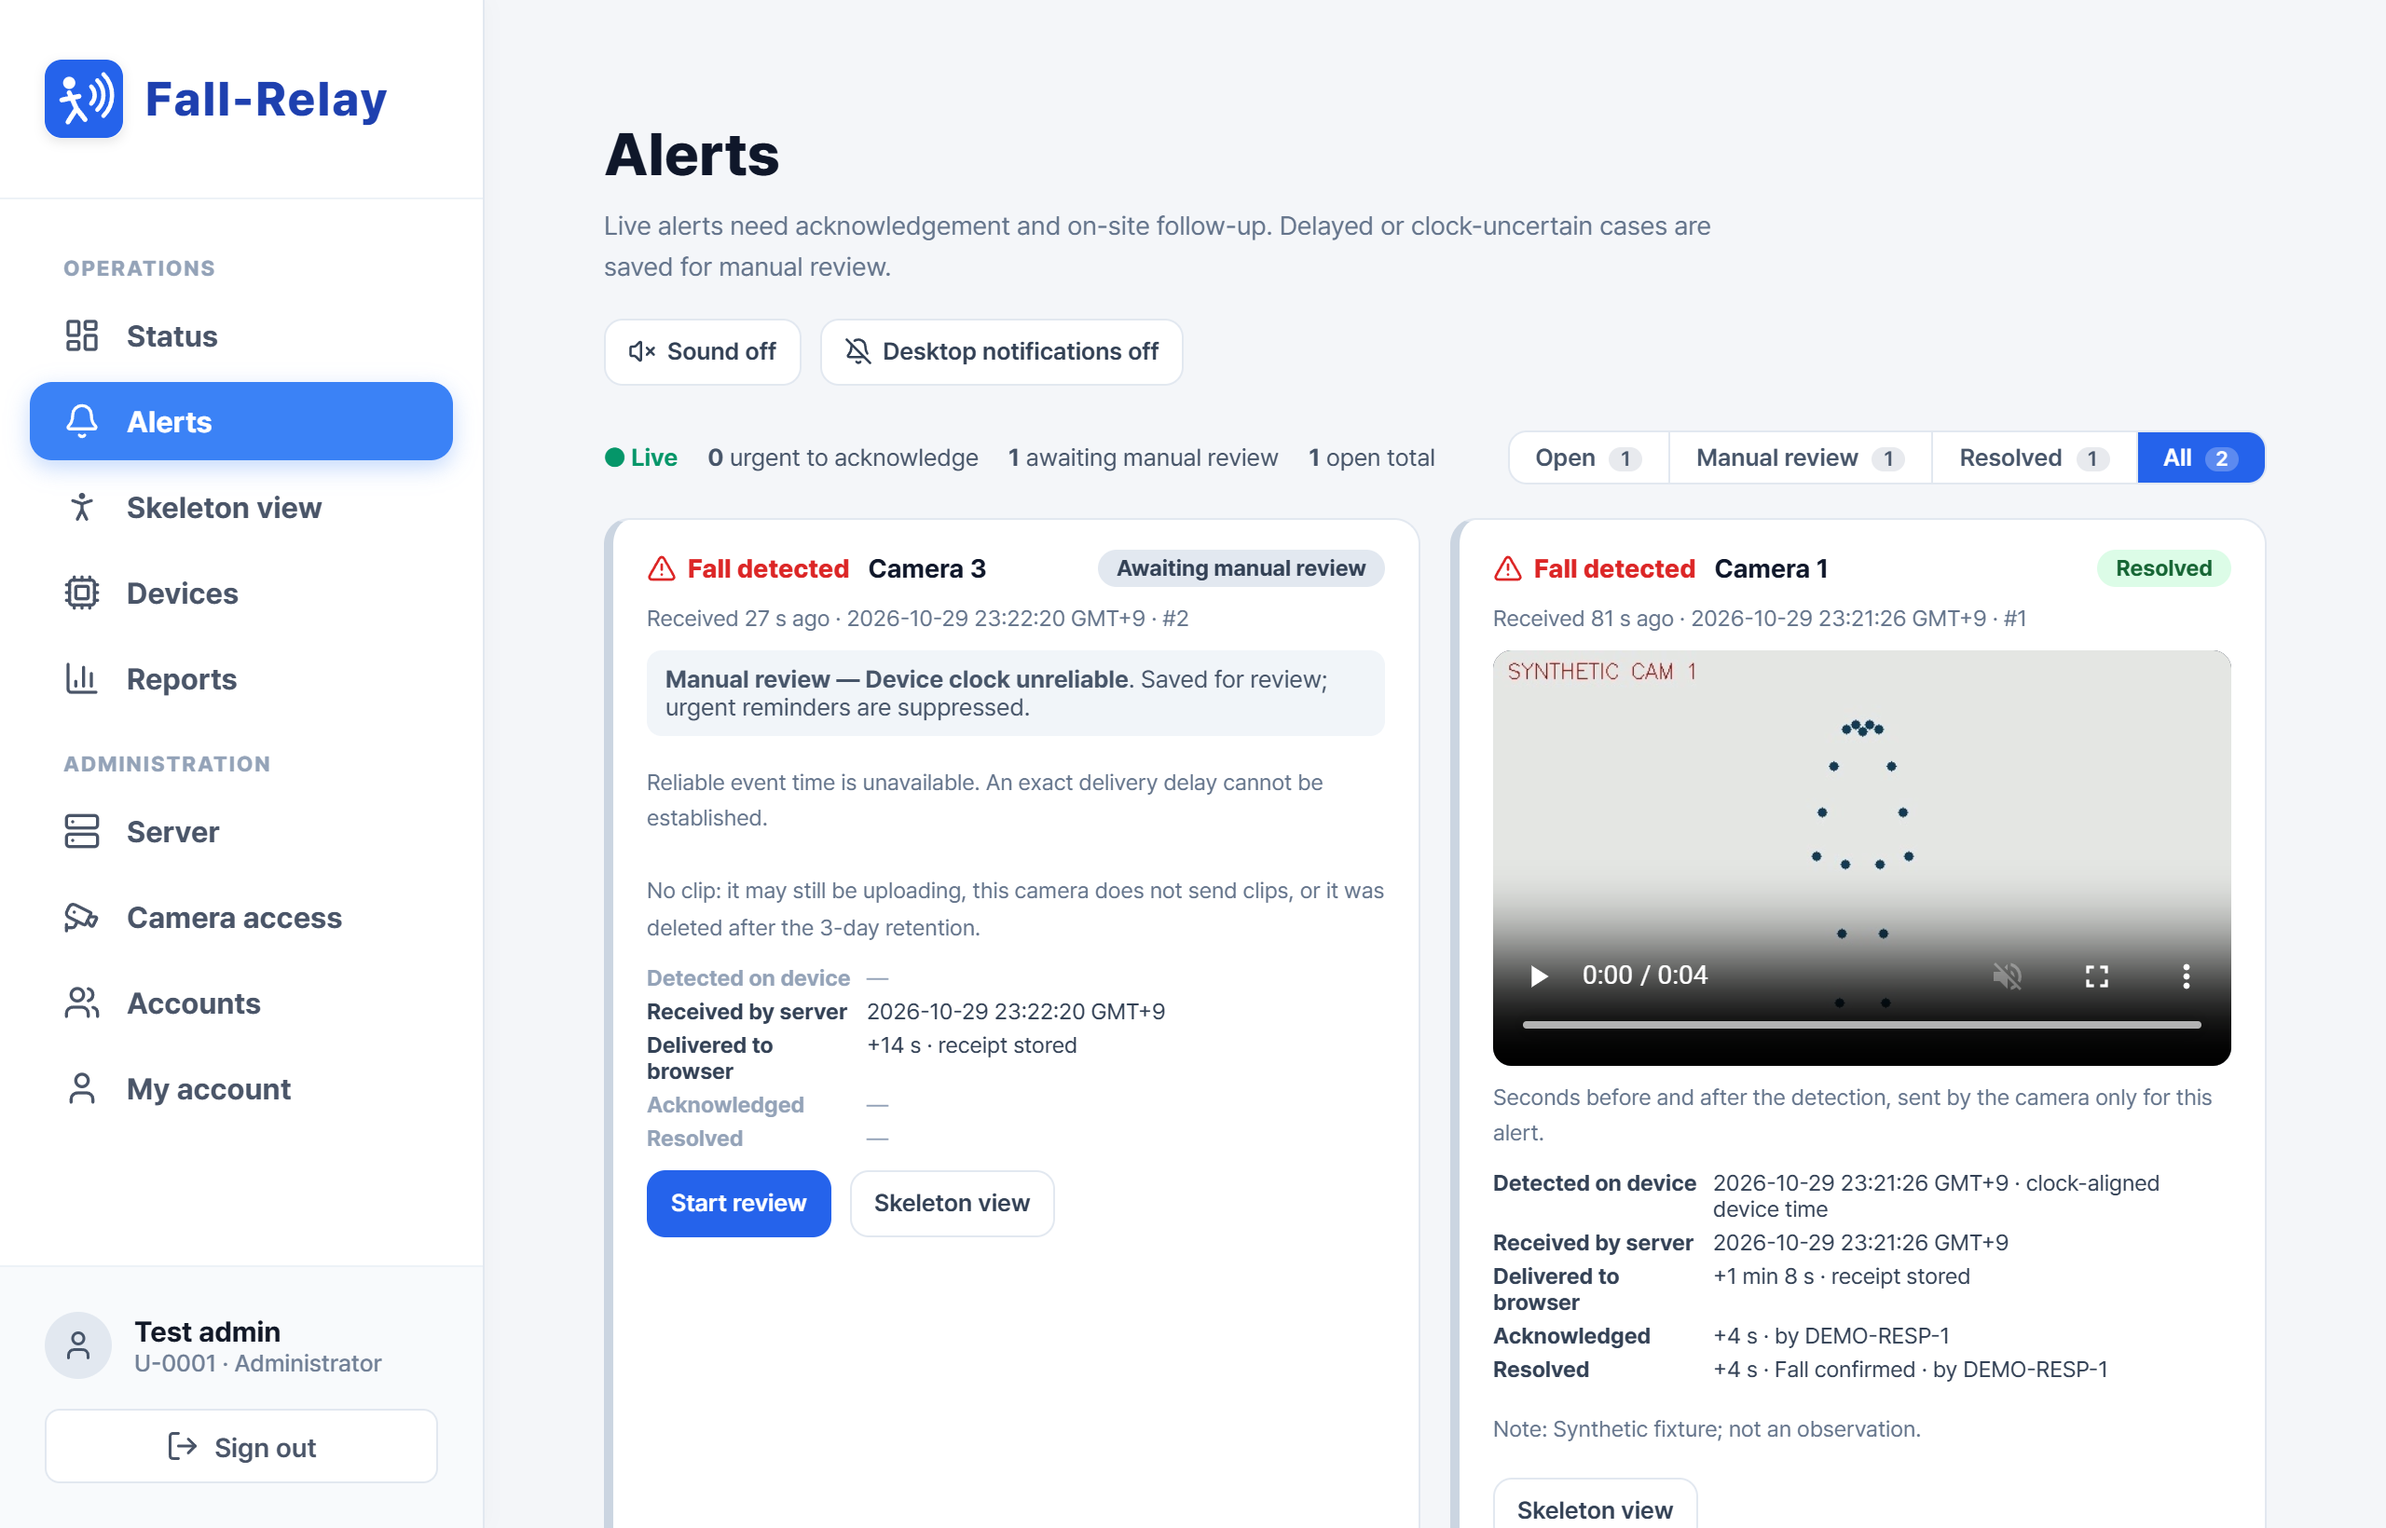
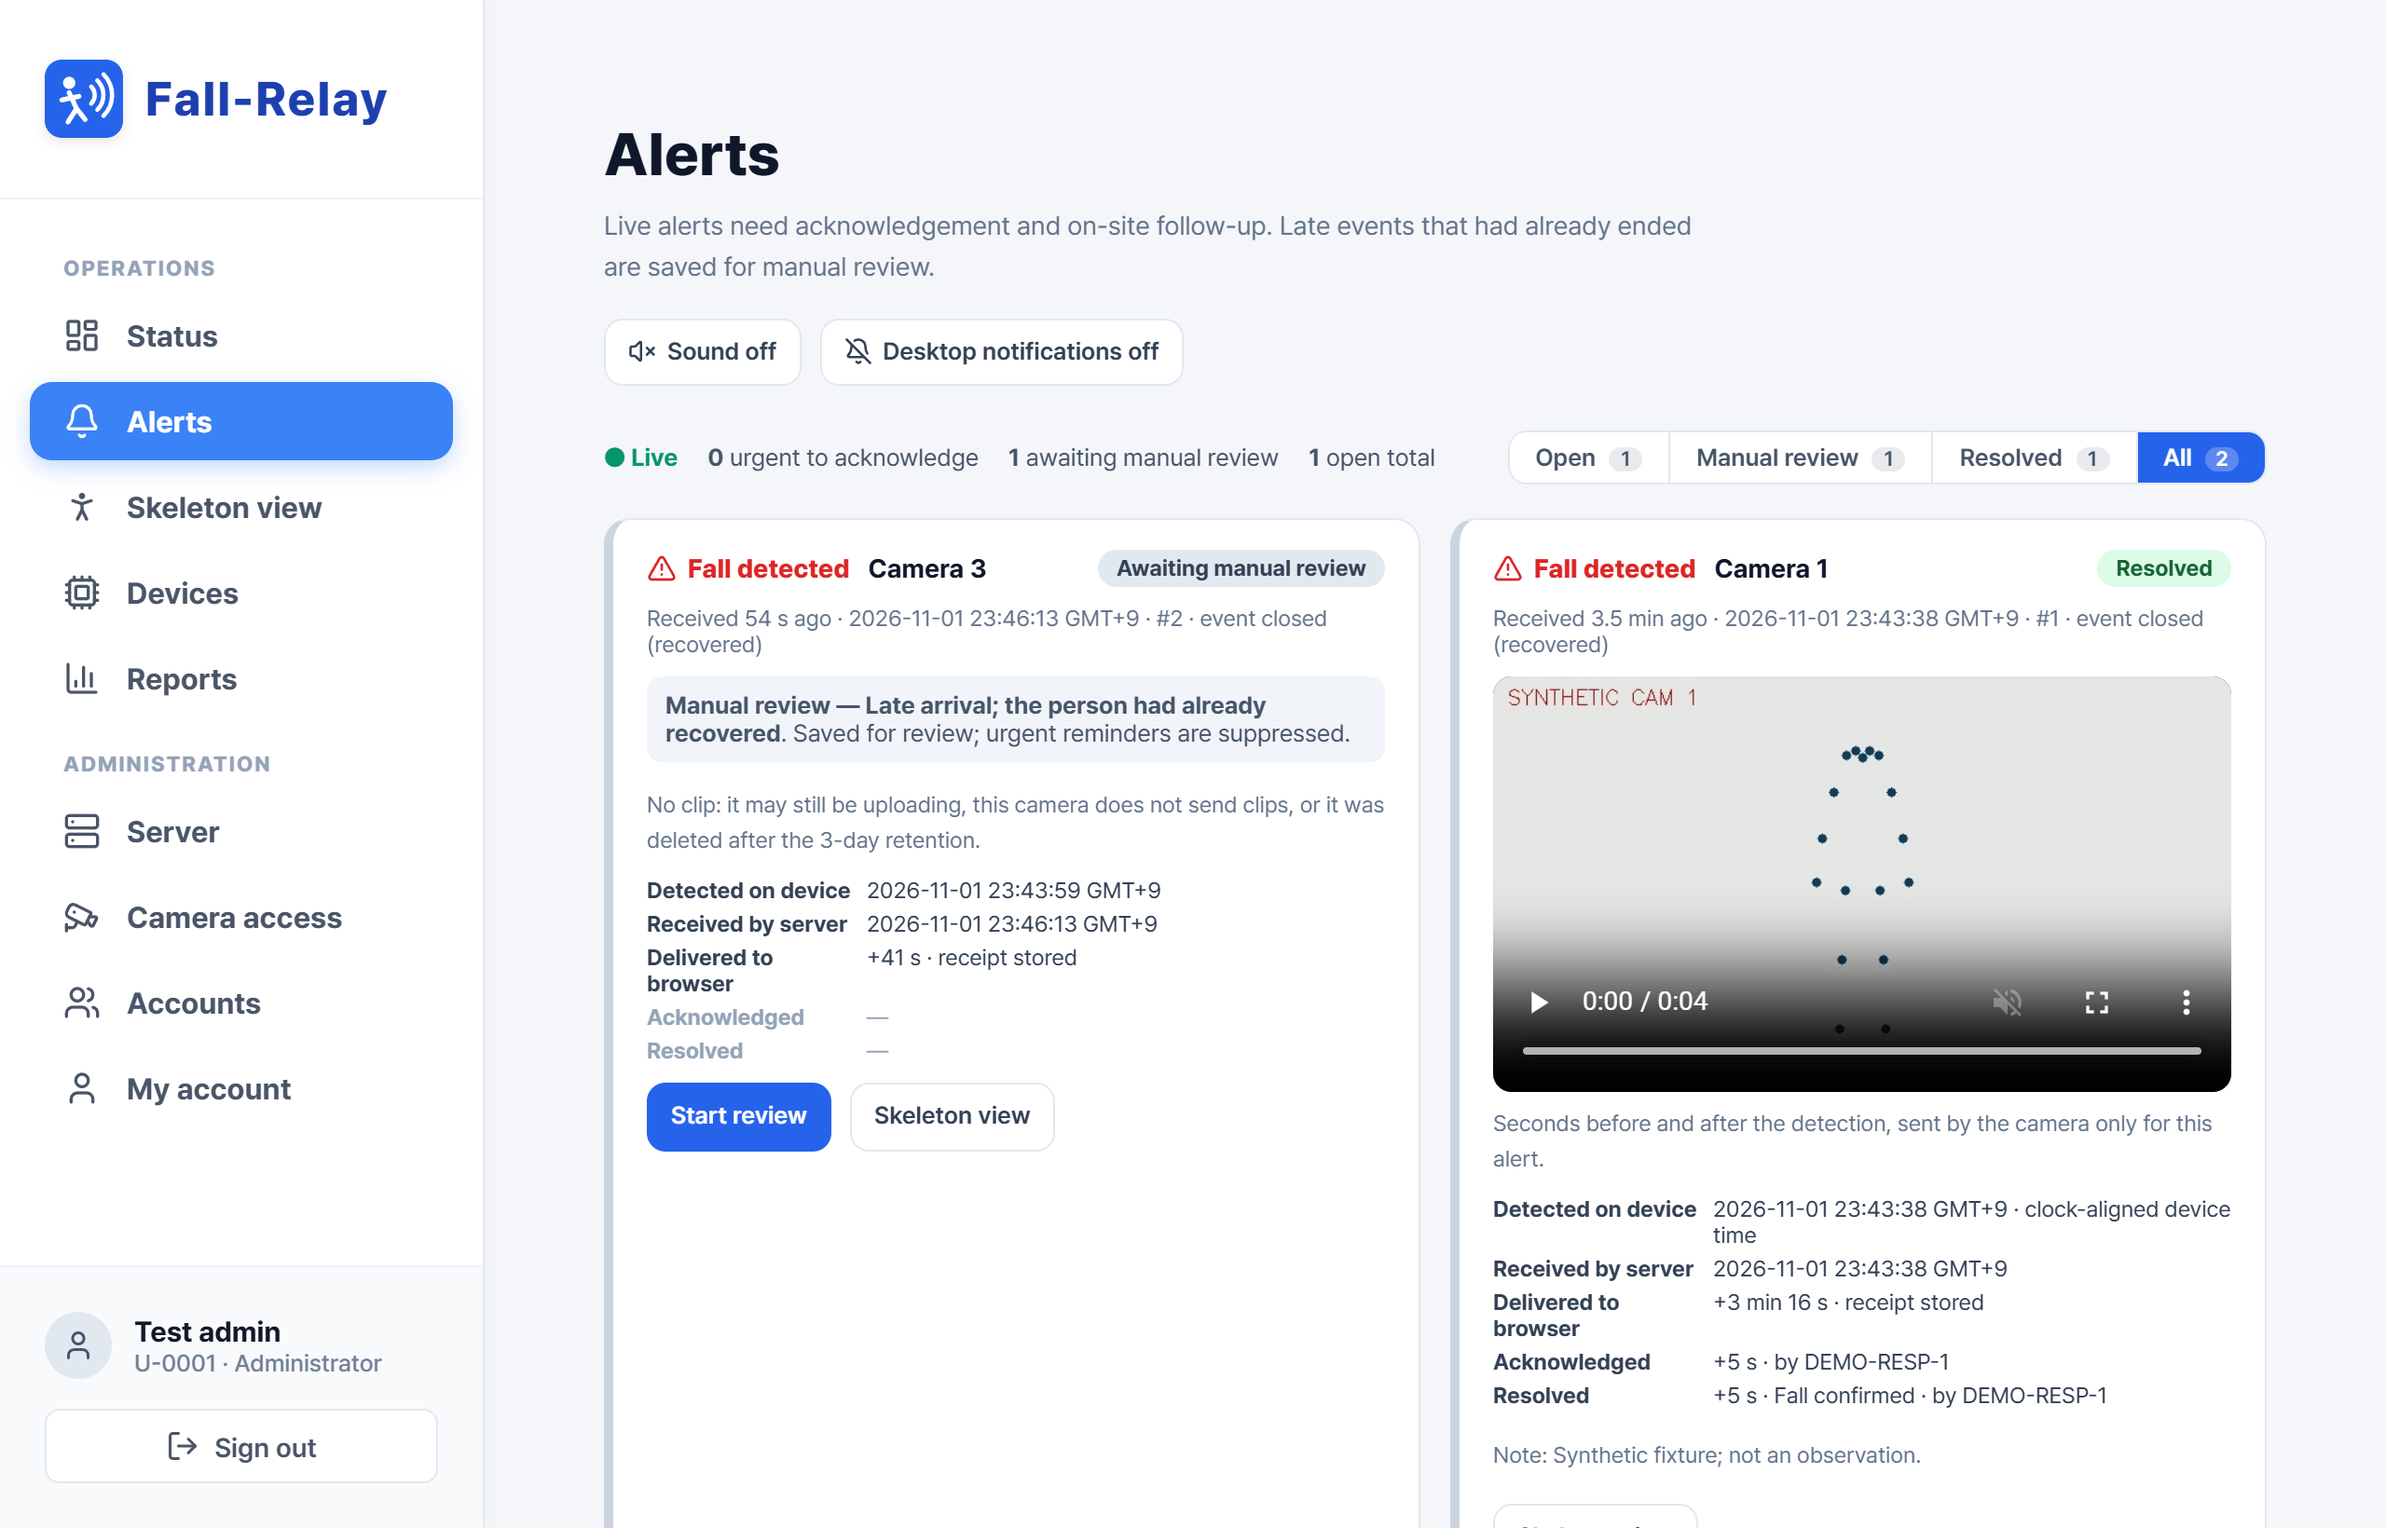
Screens: recapture the four pages from one v1.1.0 run; the manual-review alert shows the policy-2 reason

diff --git a/docs/screens/README.md b/docs/screens/README.md
@@ -3,11 +3,10 @@
 Captures of the web application running the hardware-free example (`server/bridge/demo.py --serve` with
 `verify_web_demo.py --serve`), 1280 x 820 CSS pixels at 2x. All values, alerts, devices and the clip come from the
 synthetic fixture; no real person or camera image is shown. These are the readable originals of Fig. 5 of the
-article, captured from one v1.0.2 run. The manual-review alert comes from `edge/examples/any_detector_adapter.py`
-run once against an unreachable server and then against the demo bridge (camera 3 added by the administrator
-API): the queued event arrives late and had already closed with recovery, so the bridge classifies it for manual
-review. (These captures predate notification policy version 2 of v1.1.0, which shows the review reason as "Late arrival;
-the person had already recovered" and lists a late event that is still open as live.)
+article, captured from one v1.1.0 run. The manual-review alert comes from `edge/examples/any_detector_adapter.py`
+run once against an unreachable server and, more than 120 s later, against the demo bridge (camera 3 added by the
+administrator API): the queued event arrives late and had already closed with recovery, so notification policy
+version 2 classifies it for manual review ("Late arrival; the person had already recovered").
 
 | File | Screen |
 |---|---|
